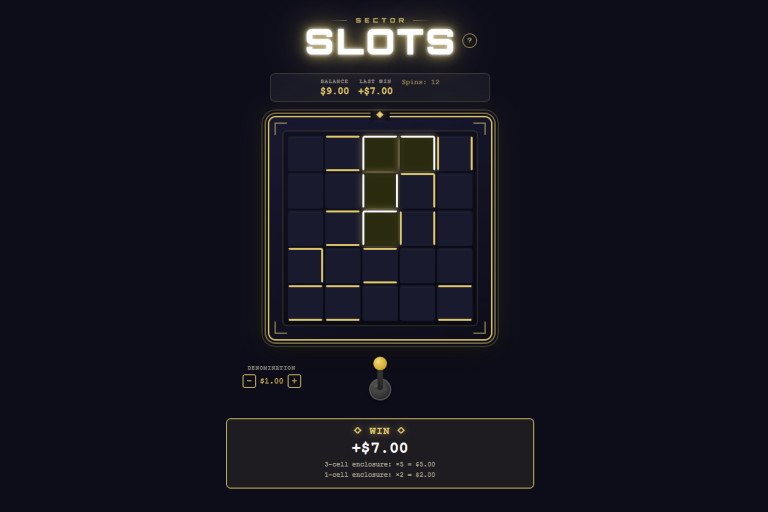
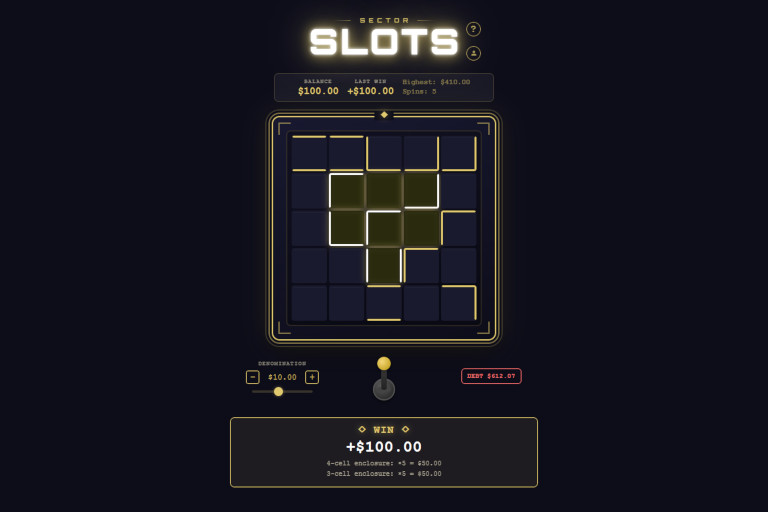
add: update Sector Slots project details in portfolio

diff --git a/src/portfolioGallery.ts b/src/portfolioGallery.ts
@@ -20,20 +20,20 @@ const slides: Slide[] = [
             "A multiplayer auction simulator where players buy, sell, and flip items through short-lived bid wars while AI-driven NPCs keep the economy alive. <br><strong>Made using:</strong> Next.js, Prisma, Supabase, and TypeScript",
     },
     {
+        img: "/imgs/sector-slots.jpg",
+        title: "Sector Slots",
+        url: "https://sectorslots.netlify.app",
+        sourceUrl: "https://github.com/EctoBoi/sector-slots",
+        description:
+            "Browser-based slot machine with a debt problem. Spin a grid of pipe-like tiles and win by forming enclosed sectors. Take escalating loans with compound interest, search the couch cushions for loose change, and try not to let your debt hit the ceiling. <br><strong>Made using:</strong> GSAP, Howler, and TypeScript",
+    },
+    {
         img: "/imgs/lithomancy.jpg",
         title: "Lithomancy",
         url: "https://justinbanton.ca/Lithomancy",
         sourceUrl: "https://github.com/EctoBoi/lithomancy",
         description:
             "Browser-based online 1v1 dueling game. Cast spells, concoct potions, and harness charms, a wizardly reimagining of rock paper scissors. <br><strong>Made using:</strong> PartyKit, Tailwind, and TypeScript",
-    },
-    {
-        img: "/imgs/sector-slots.jpg",
-        title: "Sector Slots",
-        url: "https://sectorslots.netlify.app",
-        sourceUrl: "https://github.com/EctoBoi/sector-slots",
-        description:
-            "Browser-based slot machine with a twist, spin a grid of pipe-like tiles and win by forming enclosed sectors. Features animated spins, sound effects, and adjustable denominations. <br><strong>Made using:</strong> GSAP, Howler, Tailwind, and TypeScript",
     },
     {
         img: "/imgs/SignMaker.jpg",

diff --git a/public/main.js b/public/main.js
@@ -634,18 +634,18 @@ const slides = [
         description: "A multiplayer auction simulator where players buy, sell, and flip items through short-lived bid wars while AI-driven NPCs keep the economy alive. <br><strong>Made using:</strong> Next.js, Prisma, Supabase, and TypeScript",
     },
     {
+        img: "/imgs/sector-slots.jpg",
+        title: "Sector Slots",
+        url: "https://sectorslots.netlify.app",
+        sourceUrl: "https://github.com/EctoBoi/sector-slots",
+        description: "Browser-based slot machine with a debt problem. Spin a grid of pipe-like tiles and win by forming enclosed sectors. Take escalating loans with compound interest, search the couch cushions for loose change, and try not to let your debt hit the ceiling. <br><strong>Made using:</strong> GSAP, Howler, and TypeScript",
+    },
+    {
         img: "/imgs/lithomancy.jpg",
         title: "Lithomancy",
         url: "https://justinbanton.ca/Lithomancy",
         sourceUrl: "https://github.com/EctoBoi/lithomancy",
         description: "Browser-based online 1v1 dueling game. Cast spells, concoct potions, and harness charms, a wizardly reimagining of rock paper scissors. <br><strong>Made using:</strong> PartyKit, Tailwind, and TypeScript",
-    },
-    {
-        img: "/imgs/sector-slots.jpg",
-        title: "Sector Slots",
-        url: "https://sectorslots.netlify.app",
-        sourceUrl: "https://github.com/EctoBoi/sector-slots",
-        description: "Browser-based slot machine with a twist, spin a grid of pipe-like tiles and win by forming enclosed sectors. Features animated spins, sound effects, and adjustable denominations. <br><strong>Made using:</strong> GSAP, Howler, Tailwind, and TypeScript",
     },
     {
         img: "/imgs/SignMaker.jpg",